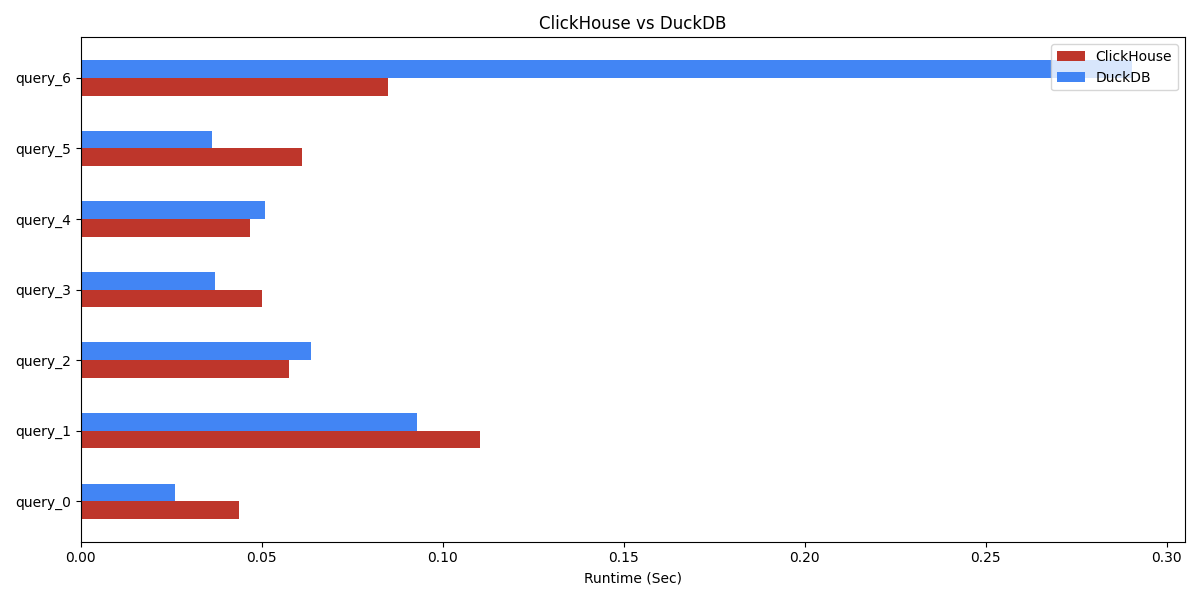
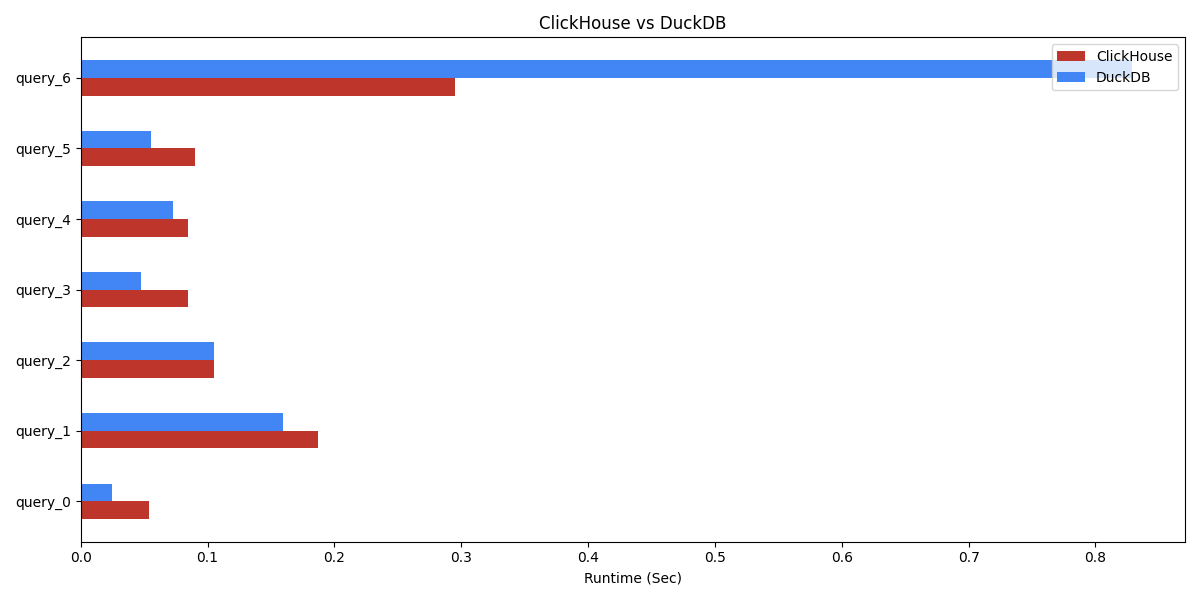
Regenerate results according to the new size of data

diff --git a/parquet/performance/results/nyc_taxi/23.8.2.7/README.md b/parquet/performance/results/nyc_taxi/23.8.2.7/README.md
@@ -4,71 +4,71 @@
 ![Bar Chart](bar_chart.png)
 # query_0
 ```sql
- SELECT COUNT(*) FROM file(nyc_taxi_parquet_3767f60d_5d8b_11ee_924e_01a4aa584ed2.parquet);
+ SELECT COUNT(*) FROM file(nyc_taxi_parquet_c0a2032e_5df6_11ee_924e_01a4aa584ed2.parquet);
 ```
 
 ```mermaid
      pie showData
-         "ClickHouse" : 0.0436403751373291
-         "DuckDB" : 0.0259654521942138
+         "ClickHouse" : 0.0537638664245605
+         "DuckDB" : 0.0245544910430908
 ```
 # query_1
 ```sql
- SELECT pickup_ntaname, count(*) AS count FROM file(nyc_taxi_parquet_3767f60d_5d8b_11ee_924e_01a4aa584ed2.parquet) GROUP BY pickup_ntaname ORDER BY count DESC LIMIT 10;
+ SELECT pickup_ntaname, count(*) AS count FROM file(nyc_taxi_parquet_c0a2032e_5df6_11ee_924e_01a4aa584ed2.parquet) GROUP BY pickup_ntaname ORDER BY count DESC LIMIT 10;
 ```
 
 ```mermaid
      pie showData
-         "ClickHouse" : 0.1103103160858154
-         "DuckDB" : 0.0929312705993652
+         "ClickHouse" : 0.1874408721923828
+         "DuckDB" : 0.159839391708374
 ```
 # query_2
 ```sql
- SELECT passenger_count, avg(total_amount) FROM file('nyc_taxi_parquet_3767f60d_5d8b_11ee_924e_01a4aa584ed2.parquet') GROUP BY passenger_count;
+ SELECT passenger_count, avg(total_amount) FROM file('nyc_taxi_parquet_c0a2032e_5df6_11ee_924e_01a4aa584ed2.parquet') GROUP BY passenger_count;
 ```
 
 ```mermaid
      pie showData
-         "ClickHouse" : 0.0576138496398925
-         "DuckDB" : 0.0636413097381591
+         "ClickHouse" : 0.1051983833312988
+         "DuckDB" : 0.1048510074615478
 ```
 # query_3
 ```sql
- SELECT AVG(tip_amount) FROM file('nyc_taxi_parquet_3767f60d_5d8b_11ee_924e_01a4aa584ed2.parquet');
+ SELECT AVG(tip_amount) FROM file('nyc_taxi_parquet_c0a2032e_5df6_11ee_924e_01a4aa584ed2.parquet');
 ```
 
 ```mermaid
      pie showData
-         "ClickHouse" : 0.050018310546875
-         "DuckDB" : 0.0371873378753662
+         "ClickHouse" : 0.0848035812377929
+         "DuckDB" : 0.0477464199066162
 ```
 # query_4
 ```sql
- SELECT COUNT(DISTINCT payment_type) FROM file('nyc_taxi_parquet_3767f60d_5d8b_11ee_924e_01a4aa584ed2.parquet');
+ SELECT COUNT(DISTINCT payment_type) FROM file('nyc_taxi_parquet_c0a2032e_5df6_11ee_924e_01a4aa584ed2.parquet');
 ```
 
 ```mermaid
      pie showData
-         "ClickHouse" : 0.0467145442962646
-         "DuckDB" : 0.0509572029113769
+         "ClickHouse" : 0.0844802856445312
+         "DuckDB" : 0.0726268291473388
 ```
 # query_5
 ```sql
- SELECT MIN(pickup_datetime), MAX(pickup_datetime) FROM file('nyc_taxi_parquet_3767f60d_5d8b_11ee_924e_01a4aa584ed2.parquet');
+ SELECT MIN(pickup_datetime), MAX(pickup_datetime) FROM file('nyc_taxi_parquet_c0a2032e_5df6_11ee_924e_01a4aa584ed2.parquet');
 ```
 
 ```mermaid
      pie showData
-         "ClickHouse" : 0.0610013008117675
-         "DuckDB" : 0.0362465381622314
+         "ClickHouse" : 0.0899469852447509
+         "DuckDB" : 0.0552434921264648
 ```
 # query_6
 ```sql
- SELECT trip_id, COUNT(*) FROM file('nyc_taxi_parquet_3767f60d_5d8b_11ee_924e_01a4aa584ed2.parquet') GROUP BY trip_id ORDER BY COUNT(*) DESC LIMIT 10;;
+ SELECT trip_id, COUNT(*) FROM file('nyc_taxi_parquet_c0a2032e_5df6_11ee_924e_01a4aa584ed2.parquet') GROUP BY trip_id ORDER BY COUNT(*) DESC LIMIT 10;;
 ```
 
 ```mermaid
      pie showData
-         "ClickHouse" : 0.0848152637481689
-         "DuckDB" : 0.2903854846954345
+         "ClickHouse" : 0.2951877117156982
+         "DuckDB" : 0.8291106224060059
 ```
